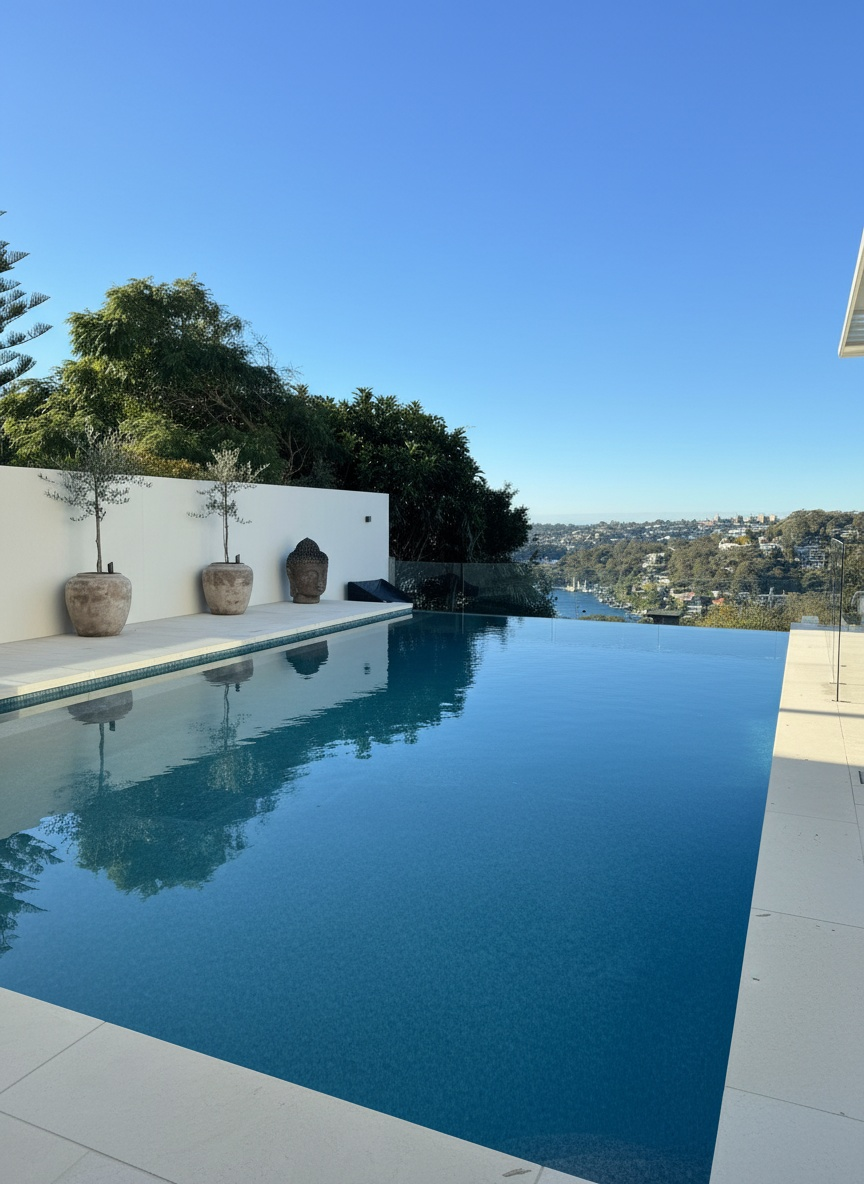
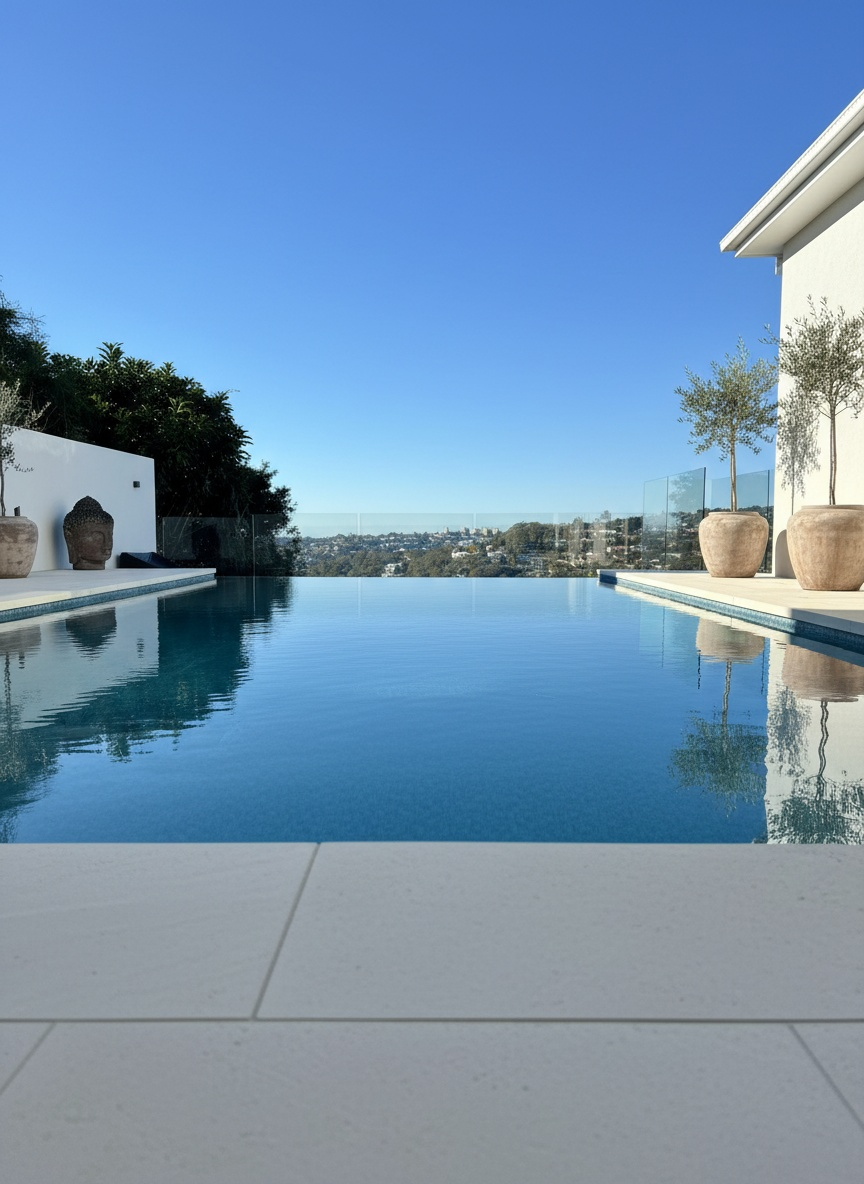
Editorial Projects spread + project-page stories
- /portfolio: Harrisons-style asymmetric layout — staggered columns, varied
  aspect ratios, copy beside every image, generous whitespace
- Project pages: genuinely different angles (water-line, aerial, dusk close-up
  regenerated via nano-banana), alternating image/copy rows with The brief /
  How we delivered, and an owner testimonial block
- Captions matched to the new angles

diff --git a/app/portfolio/page.tsx b/app/portfolio/page.tsx
@@ -1,115 +1,137 @@
 import type { Metadata } from 'next';
-import { portfolio, beforeAfters } from '@/lib/content';
+import Link from 'next/link';
+import { portfolio } from '@/lib/content';
 import { images } from '@/lib/unsplash';
-import { FadeIn } from '@/components/site/FadeIn';
-import { BeforeAfter } from '@/components/site/BeforeAfter';
-import { ProjectCard } from '@/components/portfolio/ProjectCard';
+import { ParallaxImage } from '@/components/motion/ParallaxImage';
+import { Reveal } from '@/components/motion/Reveal';
+import { WordRise } from '@/components/motion/WordRise';
 import { Cta } from '@/components/site/Cta';
 
-export const metadata: Metadata = { title: 'Portfolio' };
+export const metadata: Metadata = { title: 'Projects' };
 
+// Editorial spread — asymmetric columns, staggered offsets, air between
+// everything. Each project keeps its words beside it.
 export default function PortfolioPage() {
+  const [pool, deck, arrival] = portfolio;
+
   return (
     <>
-      <section className="container-x pt-40 pb-20 lg:pt-48 lg:pb-24">
-        <FadeIn>
-          <div className="meta mb-6 text-stone">Portfolio</div>
-          <h1 className="display max-w-5xl text-balance">
-            Selected work across <span className="display-italic">Sydney.</span>
-          </h1>
-          <p className="mt-10 body-lg max-w-2xl text-ink/75 text-pretty">
-            A handful of recent gardens. Drag the sliders to see what changed.
+      <section className="container-x pb-16 pt-36 lg:pb-24 lg:pt-44">
+        <Reveal>
+          <div className="meta mb-6 text-stone">Projects</div>
+        </Reveal>
+        <WordRise
+          as="h1"
+          className="display max-w-5xl text-balance"
+          segments={[
+            { text: 'Selected work across the' },
+            { text: 'Lower North Shore.', italic: true },
+          ]}
+          stagger={0.06}
+        />
+        <Reveal delay={0.2}>
+          <p className="body-lg mt-8 max-w-xl text-ink/70 text-pretty">
+            Three recent gardens, all within minutes of the studio. Open any of
+            them to see where each began.
           </p>
-        </FadeIn>
+        </Reveal>
       </section>
 
       <div className="container-x"><div className="rule" /></div>
 
-      {/* Project grid (two cards) */}
-      <section className="container-x py-20 lg:py-28">
-        <div className="grid gap-12 md:grid-cols-2 lg:gap-16">
-          {portfolio.slice(0, 2).map((p) => (
-            <ProjectCard
-              key={p.id}
-              href={`/portfolio/${p.id}`} title={p.title} location={p.location} year={p.year} image={p.image} />
-          ))}
+      <section className="container-x pb-24 pt-16 lg:pb-32 lg:pt-24">
+        {/* 01 — large left, text hanging right and low */}
+        <div className="grid gap-8 lg:grid-cols-12">
+          <Reveal className="lg:col-span-7">
+            <Link href={`/portfolio/${pool.id}`} className="group block">
+              <div className="overflow-hidden">
+                <ParallaxImage
+                  src={images[pool.image].src}
+                  alt={images[pool.image].alt}
+                  className="relative aspect-[4/3] bg-cream transition-transform duration-[1200ms] ease-out-expo group-hover:scale-[1.02]"
+                  sizes="(min-width: 1024px) 800px, 100vw"
+                  speed={0.06}
+                />
+              </div>
+            </Link>
+          </Reveal>
+          <Reveal delay={0.15} className="lg:col-span-4 lg:col-start-9 lg:self-end lg:pb-6">
+            <div className="meta-sm mb-4 flex items-center gap-4 text-stone">
+              <span className="text-brass" data-numeric>01</span>
+              <span>{pool.location}</span>
+              <span data-numeric>{pool.year}</span>
+            </div>
+            <h2 className="font-serif text-3xl tracking-tighter2 sm:text-4xl">{pool.title}</h2>
+            <p className="mt-4 text-base leading-relaxed text-ink/70 text-pretty">{pool.blurb}</p>
+            <Link href={`/portfolio/${pool.id}`} className="meta link-underline mt-6 inline-block py-1">
+              View project
+            </Link>
+          </Reveal>
+        </div>
+
+        {/* 02 — portrait right, text left, staggered upward */}
+        <div className="mt-20 grid gap-8 lg:mt-28 lg:grid-cols-12">
+          <Reveal delay={0.1} className="order-2 lg:order-1 lg:col-span-4 lg:col-start-2 lg:self-center">
+            <div className="meta-sm mb-4 flex items-center gap-4 text-stone">
+              <span className="text-brass" data-numeric>02</span>
+              <span>{deck.location}</span>
+              <span data-numeric>{deck.year}</span>
+            </div>
+            <h2 className="font-serif text-3xl tracking-tighter2 sm:text-4xl">{deck.title}</h2>
+            <p className="mt-4 text-base leading-relaxed text-ink/70 text-pretty">{deck.blurb}</p>
+            <Link href={`/portfolio/${deck.id}`} className="meta link-underline mt-6 inline-block py-1">
+              View project
+            </Link>
+          </Reveal>
+          <Reveal className="order-1 lg:order-2 lg:col-span-5 lg:col-start-7">
+            <Link href={`/portfolio/${deck.id}`} className="group block">
+              <div className="overflow-hidden">
+                <ParallaxImage
+                  src={images[deck.image].src}
+                  alt={images[deck.image].alt}
+                  className="relative aspect-[4/5] bg-cream transition-transform duration-[1200ms] ease-out-expo group-hover:scale-[1.02]"
+                  sizes="(min-width: 1024px) 560px, 100vw"
+                  speed={0.07}
+                />
+              </div>
+            </Link>
+          </Reveal>
+        </div>
+
+        {/* 03 — wide, offset from the left edge, text trailing right */}
+        <div className="mt-20 grid gap-8 lg:mt-28 lg:grid-cols-12">
+          <Reveal className="lg:col-span-8 lg:col-start-2">
+            <Link href={`/portfolio/${arrival.id}`} className="group block">
+              <div className="overflow-hidden">
+                <ParallaxImage
+                  src={images[arrival.image].src}
+                  alt={images[arrival.image].alt}
+                  className="relative aspect-[16/10] bg-cream transition-transform duration-[1200ms] ease-out-expo group-hover:scale-[1.02]"
+                  sizes="(min-width: 1024px) 900px, 100vw"
+                  speed={0.06}
+                />
+              </div>
+            </Link>
+          </Reveal>
+          <Reveal delay={0.15} className="lg:col-span-3 lg:col-start-10 lg:self-end lg:pb-8">
+            <div className="meta-sm mb-4 flex items-center gap-4 text-stone">
+              <span className="text-brass" data-numeric>03</span>
+              <span>{arrival.location}</span>
+              <span data-numeric>{arrival.year}</span>
+            </div>
+            <h2 className="font-serif text-3xl tracking-tighter2">{arrival.title}</h2>
+            <p className="mt-4 text-base leading-relaxed text-ink/70 text-pretty">{arrival.blurb}</p>
+            <Link href={`/portfolio/${arrival.id}`} className="meta link-underline mt-6 inline-block py-1">
+              View project
+            </Link>
+          </Reveal>
         </div>
       </section>
 
-      {/* Before/after #1 — light interlude */}
-      <section className="bg-paper text-ink">
-        <div className="container-x py-24 lg:py-32">
-          <FadeIn className="mb-10 flex items-center gap-6">
-            <span className="meta-sm text-brass">01</span>
-            <span className="meta text-stone">Before — After</span>
-            <span className="h-px flex-1 bg-paper-KEEP/10" aria-hidden />
-          </FadeIn>
-          <FadeIn>
-            <h2 className="mb-8 font-serif text-3xl tracking-tighter2 md:text-4xl">{beforeAfters[0].label}</h2>
-            <BeforeAfter
-              beforeSrc={images[beforeAfters[0].before].src}
-              afterSrc={images[beforeAfters[0].after].src}
-              beforeAlt={images[beforeAfters[0].before].alt}
-              afterAlt={images[beforeAfters[0].after].alt}
-              label={beforeAfters[0].label}
-            />
-          </FadeIn>
-        </div>
-      </section>
-
-      {/* Project grid (two more) */}
-      <section className="container-x py-20 lg:py-28">
-        <div className="grid gap-12 md:grid-cols-2 lg:gap-16">
-          {portfolio.slice(2, 4).map((p) => (
-            <ProjectCard
-              key={p.id}
-              href={`/portfolio/${p.id}`} title={p.title} location={p.location} year={p.year} image={p.image} />
-          ))}
-        </div>
-      </section>
-
-      {/* Before/after #2 — light interlude */}
-      <section className="bg-paper text-ink">
-        <div className="container-x py-24 lg:py-32">
-          <FadeIn className="mb-10 flex items-center gap-6">
-            <span className="meta-sm text-brass">02</span>
-            <span className="meta text-stone">Before — After</span>
-            <span className="h-px flex-1 bg-paper-KEEP/10" aria-hidden />
-          </FadeIn>
-          <FadeIn>
-            <h2 className="mb-8 font-serif text-3xl tracking-tighter2 md:text-4xl">{beforeAfters[1].label}</h2>
-            <BeforeAfter
-              beforeSrc={images[beforeAfters[1].before].src}
-              afterSrc={images[beforeAfters[1].after].src}
-              beforeAlt={images[beforeAfters[1].before].alt}
-              afterAlt={images[beforeAfters[1].after].alt}
-              label={beforeAfters[1].label}
-            />
-          </FadeIn>
-        </div>
-      </section>
-
-      {/* Before/after #3 */}
-      <section className="container-x py-24 lg:py-32">
-        <FadeIn className="mb-10 flex items-center gap-6">
-          <span className="meta-sm text-brass">03</span>
-          <span className="meta text-stone">Before — After</span>
-          <span className="h-px flex-1 bg-paper/10" aria-hidden />
-        </FadeIn>
-        <FadeIn>
-          <h2 className="mb-8 font-serif text-3xl tracking-tighter2 md:text-4xl">{beforeAfters[2].label}</h2>
-          <BeforeAfter
-            beforeSrc={images[beforeAfters[2].before].src}
-            afterSrc={images[beforeAfters[2].after].src}
-            beforeAlt={images[beforeAfters[2].before].alt}
-            afterAlt={images[beforeAfters[2].after].alt}
-            label={beforeAfters[2].label}
-            captionClassName="text-stone"
-          />
-        </FadeIn>
-      </section>
-
-      <Cta title="Want your garden in the next group?" body="We take six to eight projects each year. The 2026 list opens this winter." />
+      <Cta
+        title="Want your garden in the next group?"
+        body="We take six to eight projects each year, all close to the studio. The next list opens this winter."
+      />
     </>
   );
 }

diff --git a/app/portfolio/[slug]/page.tsx b/app/portfolio/[slug]/page.tsx
@@ -11,27 +11,46 @@ import { Cta } from '@/components/site/Cta';
 // Every photo on a project page belongs to that project: the real hero shot
 // first (as the After in the drag slider, against an AI-imagined Before),
 // then two more angles of the same garden.
+type Story = { brief: string; excelled: string; quote: string; owner: string };
 const media: Record<
   string,
-  { before: string; angles: { src: string; alt: string; caption: string }[] }
+  { before: string; story: Story; angles: { src: string; alt: string; caption: string }[] }
 > = {
   'castlecrag-pool': {
     before: '/images/real/gen/before-pool.jpg',
+    story: {
+      brief:
+        'A tired paved terrace holding the best view on the street, and nothing to frame it. The owners asked for a pool that would sit in the view — not in front of it.',
+      excelled:
+        'We cut the pool into the level so the water line runs to the horizon, kept every finish pale and quiet — stone surrounds, three olives on the boundary — and let the harbour do the talking.',
+      quote:
+        'Every trade turned up when Rory said they would. The pool looks like it was always here — the view finally has somewhere to land.',
+      owner: 'Private clients — Castlecrag',
+    },
     angles: [
       {
         src: '/images/real/gen/angle-pool-2.jpg',
-        alt: 'Along the pool edge — stone coping, potted olives, harbour valley beyond',
-        caption: 'Along the pool edge — coping, olives, the valley beyond',
+        alt: 'Skimming the water line — stone coping and olives, harbour valley beyond',
+        caption: 'At the water line — coping, olives, the valley beyond',
       },
       {
         src: '/images/real/gen/angle-pool-3.jpg',
-        alt: 'From the far corner of the pool terrace looking back at the house',
-        caption: 'Looking back at the house from the terrace corner',
+        alt: 'The pool from above — terrace, water and lawn in plan',
+        caption: 'From above — the terrace reads like the drawing',
       },
     ],
   },
   'castlecrag-deck': {
     before: '/images/real/gen/before-deck.jpg',
+    story: {
+      brief:
+        'The house opened straight onto a pool the family could barely use — no deck, no shade, nowhere to sit. They asked for an outdoor room, not a walkway.',
+      excelled:
+        'Wide hardwood boards laid flush with the interior floor, glass fencing so the pool reads as part of the room, and planting to soften every hard edge.',
+      quote:
+        'It is the room we use most now. The kids are in the pool every afternoon and we have not moved the chairs since the crew left.',
+      owner: 'Owners — Castlecrag',
+    },
     angles: [
       {
         src: '/images/real/passage.jpg',
@@ -40,13 +59,22 @@ const media: Record<
       },
       {
         src: '/images/real/gen/angle-deck-2.jpg',
-        alt: 'Across the hardwood boards toward the furniture and glass pool fence',
-        caption: 'Across the boards to the glass pool fence',
+        alt: 'Low along the deck boards at dusk, pool glowing beyond the glass fence',
+        caption: 'Deck boards at dusk — the pool just beyond the glass',
       },
     ],
   },
   'castlecrag-arrival': {
     before: '/images/real/gen/before-driveway.jpg',
+    story: {
+      brief:
+        'A cracked concrete drive and a front garden that apologised for the house. The brief was one line: make the arrival worth the address.',
+      excelled:
+        'Granite cobbles laid in course, sandstone-edged beds, olives and magnolias for year-round structure — and low brass lighting that carries it after dark.',
+      quote:
+        'People genuinely slow down as they drive past. It changed how the whole house presents from the street.',
+      owner: 'Owners — Castlecrag',
+    },
     angles: [
       {
         src: '/images/real/planting.jpg',
@@ -121,25 +149,57 @@ export default async function ProjectPage({ params }: { params: Promise<{ slug: 
             />
           </Reveal>
 
-          {/* Two more angles of the same project */}
-          <div className="mt-16 space-y-16 lg:mt-20">
-            {m.angles.map((photo) => (
-              <Reveal key={photo.src}>
-                <figure>
-                  <div className="relative aspect-[16/10] overflow-hidden bg-cream">
-                    <Image
-                      src={photo.src}
-                      alt={photo.alt}
-                      fill
-                      sizes="(min-width: 1440px) 1312px, 100vw"
-                      className="grade object-cover"
-                    />
-                  </div>
-                  <figcaption className="meta-sm mt-4 text-stone">{photo.caption}</figcaption>
-                </figure>
-              </Reveal>
-            ))}
+          {/* The story — angles either side of the copy */}
+          <div className="mt-20 grid gap-8 lg:mt-28 lg:grid-cols-12">
+            <Reveal className="lg:col-span-7">
+              <figure>
+                <div className="relative aspect-[4/3] overflow-hidden bg-cream">
+                  <Image
+                    src={m.angles[0].src}
+                    alt={m.angles[0].alt}
+                    fill
+                    sizes="(min-width: 1024px) 800px, 100vw"
+                    className="grade object-cover"
+                  />
+                </div>
+                <figcaption className="meta-sm mt-4 text-stone">{m.angles[0].caption}</figcaption>
+              </figure>
+            </Reveal>
+            <Reveal delay={0.15} className="lg:col-span-4 lg:col-start-9 lg:self-center">
+              <div className="meta-sm mb-3 text-brass">The brief</div>
+              <p className="text-base leading-relaxed text-ink/75 text-pretty">{m.story.brief}</p>
+            </Reveal>
           </div>
+
+          <div className="mt-16 grid gap-8 lg:mt-24 lg:grid-cols-12">
+            <Reveal delay={0.1} className="order-2 lg:order-1 lg:col-span-4 lg:col-start-2 lg:self-center">
+              <div className="meta-sm mb-3 text-brass">How we delivered</div>
+              <p className="text-base leading-relaxed text-ink/75 text-pretty">{m.story.excelled}</p>
+            </Reveal>
+            <Reveal className="order-1 lg:order-2 lg:col-span-6 lg:col-start-7">
+              <figure>
+                <div className="relative aspect-[4/3] overflow-hidden bg-cream">
+                  <Image
+                    src={m.angles[1].src}
+                    alt={m.angles[1].alt}
+                    fill
+                    sizes="(min-width: 1024px) 700px, 100vw"
+                    className="grade object-cover"
+                  />
+                </div>
+                <figcaption className="meta-sm mt-4 text-stone">{m.angles[1].caption}</figcaption>
+              </figure>
+            </Reveal>
+          </div>
+
+          {/* From the owners */}
+          <Reveal className="mx-auto mt-20 max-w-3xl text-center lg:mt-28">
+            <span className="mx-auto block h-px w-10 bg-brass" aria-hidden />
+            <blockquote className="mt-8 font-serif italic text-2xl leading-snug tracking-tighter2 text-ink/90 sm:text-3xl">
+              &ldquo;{m.story.quote}&rdquo;
+            </blockquote>
+            <div className="meta-sm mt-6 text-stone">{m.story.owner}</div>
+          </Reveal>
         </div>
       </article>
       <Cta